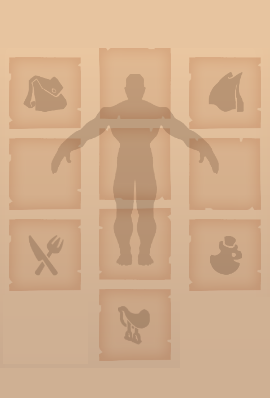
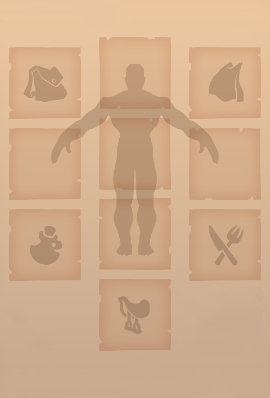
Items in inventory

diff --git a/src/routes/+page.svelte b/src/routes/+page.svelte
@@ -2,7 +2,10 @@
 	import { weapons, offhands, capes, helmets, armors, boots } from "./components/items";
 
 	let selectedWeapon: { name: string; img: string } = { name: "", img: "" };
-	let selectedOffhand: { name: string; img: string } = { name: "", img: "" };
+	let selectedOffhand: { name: string; img: string } = {
+		name: "",
+		img: "src\routesimages\no-offhand.png"
+	};
 	let selectedHelmet: { name: string; img: string } = { name: "", img: "" };
 	let selectedArmor: { name: string; img: string } = { name: "", img: "" };
 	let selectedBoots: { name: string; img: string } = { name: "", img: "" };
@@ -37,7 +40,7 @@
 			<!-----------Helmet select------------->
 			<label>
 				Helmet:
-				<select bind:value={selectedHelmet}>
+				<select disabled={selectedWeapon.name == ""} bind:value={selectedHelmet}>
 					{#each helmets as helmet}
 						<option value={helmet}>
 							{helmet.name}
@@ -48,7 +51,7 @@
 			<!-----------Armor select-------------->
 			<label>
 				Armor:
-				<select bind:value={selectedArmor}>
+				<select disabled={selectedWeapon.name == ""} bind:value={selectedArmor}>
 					{#each armors as armor}
 						<option value={armor}>
 							{armor.name}
@@ -59,7 +62,7 @@
 			<!-----------Helmet select------------->
 			<label>
 				Boots:
-				<select bind:value={selectedBoots}>
+				<select disabled={selectedWeapon.name == ""} bind:value={selectedBoots}>
 					{#each boots as boots}
 						<option value={boots}>
 							{boots.name}
@@ -70,7 +73,7 @@
 			<!------------Cape select-------------->
 			<label>
 				Cape:
-				<select bind:value={selectedCape}>
+				<select disabled={selectedWeapon.name == ""} bind:value={selectedCape}>
 					{#each capes as cape}
 						<option value={cape}>
 							{cape.name}
@@ -79,19 +82,84 @@
 				</select>
 			</label>
 		</form>
+		<p>Choose weapon first!</p>
 	</div>
-	{#if selectedWeapon.onehand == true}
-		<img src={selectedWeapon.img} alt={selectedWeapon.name} />
-		<img src={selectedOffhand.img} alt={selectedOffhand.name} />
-		<img src={selectedHelmet.img} alt={selectedHelmet.name} />
-		<img src={selectedArmor.img} alt={selectedArmor.name} />
-		<img src={selectedBoots.img} alt={selectedBoots.name} />
-		<img src={selectedCape.img} alt={selectedCape.name} />
-	{:else}
-		<img src={selectedWeapon.img} alt={selectedWeapon.name} />
-		<img src={selectedHelmet.img} alt={selectedHelmet.name} />
-		<img src={selectedArmor.img} alt={selectedArmor.name} />
-		<img src={selectedBoots.img} alt={selectedBoots.name} />
-		<img src={selectedCape.img} alt={selectedCape.name} />
-	{/if}
+	<img src="src\routes\images\inventory.png" alt="inventory" class="inventory" />
+	<div class="items">
+		{#if selectedWeapon.onehand == true && selectedOffhand.name !== ""}
+			<img id="weapon" src={selectedWeapon.img} alt={selectedWeapon.name} />
+			<img id="offhand" src={selectedOffhand.img} alt={selectedOffhand.name} />
+			<img id="helmet" src={selectedHelmet.img} alt={selectedHelmet.name} />
+			<img id="armor" src={selectedArmor.img} alt={selectedArmor.name} />
+			<img id="boots" src={selectedBoots.img} alt={selectedBoots.name} />
+			<img id="cape" src={selectedCape.img} alt={selectedCape.name} />
+		{:else if selectedOffhand.name == ""}
+			<img id="weapon" src={selectedWeapon.img} alt={selectedWeapon.name} />
+			<img id="offhand" src="src\routes\images\no-offhand.png" alt={selectedOffhand.name} />
+			<img id="helmet" src={selectedHelmet.img} alt={selectedHelmet.name} />
+			<img id="armor" src={selectedArmor.img} alt={selectedArmor.name} />
+			<img id="boots" src={selectedBoots.img} alt={selectedBoots.name} />
+			<img id="cape" src={selectedCape.img} alt={selectedCape.name} />
+		{:else}
+			<img id="weapon" src={selectedWeapon.img} alt={selectedWeapon.name} />
+			<img id="offhand" src="src\routes\images\no-offhand.png" alt={selectedOffhand.name} />
+			<img id="helmet" src={selectedHelmet.img} alt={selectedHelmet.name} />
+			<img id="armor" src={selectedArmor.img} alt={selectedArmor.name} />
+			<img id="boots" src={selectedBoots.img} alt={selectedBoots.name} />
+			<img id="cape" src={selectedCape.img} alt={selectedCape.name} />
+		{/if}
+	</div>
 </body>
+
+<style>
+	.inventory {
+		display: block;
+		margin-left: auto;
+		margin-right: auto;
+		position: relative;
+		bottom: -100px;
+		left: -150px;
+	}
+	.items img {
+		width: 94px;
+		display: block;
+		margin-left: auto;
+		margin-right: auto;
+	}
+
+	#weapon {
+		position: relative;
+		bottom: 180px;
+		left: -239px;
+	}
+
+	#offhand {
+		position: relative;
+		bottom: 273px;
+		left: -58px;
+	}
+
+	#helmet {
+		position: relative;
+		bottom: 458px;
+		left: -150px;
+	}
+
+	#armor {
+		position: relative;
+		bottom: 472px;
+		left: -150px;
+	}
+
+	#boots {
+		position: relative;
+		bottom: 486px;
+		left: -150px;
+	}
+
+	#cape {
+		position: relative;
+		bottom: 732px;
+		left: -58px;
+	}
+</style>

diff --git a/svelte.config.js b/svelte.config.js
@@ -1,5 +1,5 @@
-import adapter from '@sveltejs/adapter-auto';
-import { vitePreprocess } from '@sveltejs/kit/vite';
+import adapter from "@sveltejs/adapter-static";
+import { vitePreprocess } from "@sveltejs/kit/vite";
 
 /** @type {import('@sveltejs/kit').Config} */
 const config = {

diff --git a/src/routes/+layout.js b/src/routes/+layout.js
@@ -1,0 +1,1 @@
+export const prerender = true;
